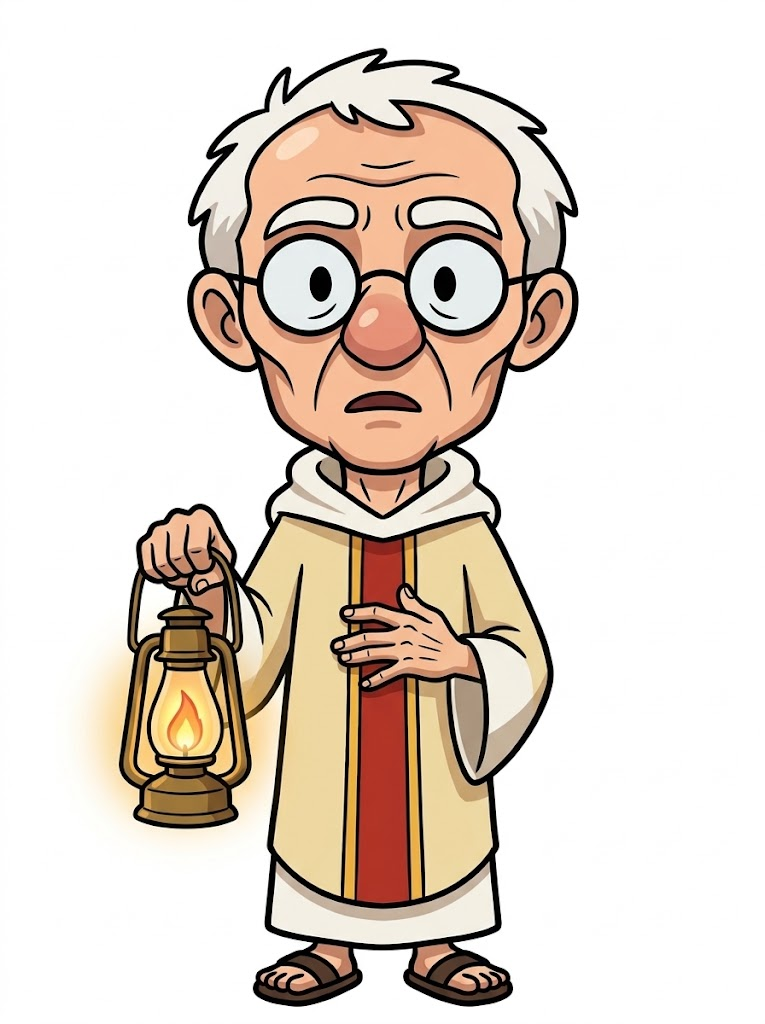
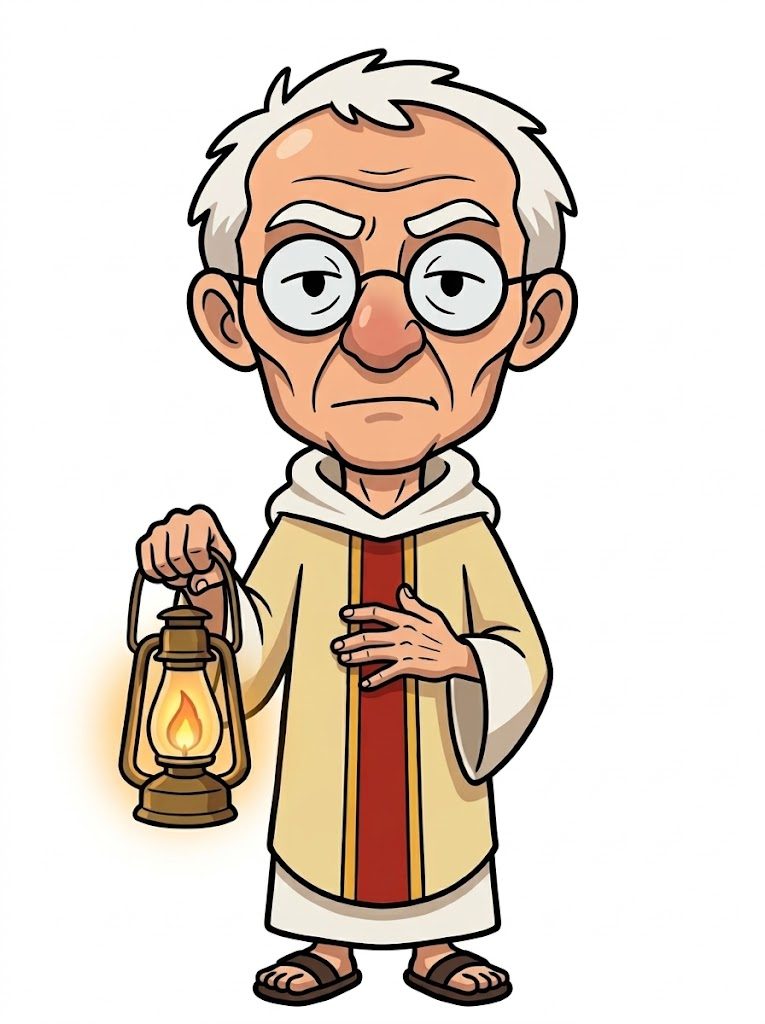
Sprite i retrat definitius del Pare Xèvius
Claude-Session: https://claude.ai/code/session_01Lxfm6YSSDLi4GYSBQ6SeDm

diff --git a/index.html b/index.html
@@ -61,62 +61,62 @@
     <div id="joc"></div>
 
     <!-- L'ordre importa: cada fitxer fa servir coses dels anteriors -->
-    <script src="js/sfx.js?v=2611182400"></script>
-    <script src="js/partida.js?v=2611182400"></script>
-    <script src="js/progres.js?v=2611182400"></script>
-    <script src="js/dibuixos.js?v=2611182400"></script>
-    <script src="js/icones.js?v=2611182400"></script>
-    <script src="js/dibuixos_biblio.js?v=2611182400"></script>
-    <script src="js/dibuixos_cela.js?v=2611182400"></script>
-    <script src="js/dibuixos_taller.js?v=2611182400"></script>
+    <script src="js/sfx.js?v=2611182430"></script>
+    <script src="js/partida.js?v=2611182430"></script>
+    <script src="js/progres.js?v=2611182430"></script>
+    <script src="js/dibuixos.js?v=2611182430"></script>
+    <script src="js/icones.js?v=2611182430"></script>
+    <script src="js/dibuixos_biblio.js?v=2611182430"></script>
+    <script src="js/dibuixos_cela.js?v=2611182430"></script>
+    <script src="js/dibuixos_taller.js?v=2611182430"></script>
     <script src="js/dibuixos_cripta.js?v=2611161400"></script>
-    <script src="js/dibuixos_georgi.js?v=2611182400"></script>
-    <script src="js/dibuixos_oratori.js?v=2611182400"></script>
-    <script src="js/dibuixos_ermita.js?v=2611182400"></script>
-    <script src="js/dibuixos_casa.js?v=2611182400"></script>
-    <script src="js/dibuixos_proleg.js?v=2611182400"></script>
-    <script src="js/dibuixos_pingpong.js?v=2611182400"></script>
-    <script src="js/assets.js?v=2611182400"></script>
-    <script src="js/dialegs.js?v=2611182400"></script>
-    <script src="js/ui.js?v=2611182400"></script>
-    <script src="js/zona_base.js?v=2611182400"></script>
-    <script src="js/atac_arma.js?v=2611182400"></script>
-    <script src="js/combat.js?v=2611182400"></script>
-    <script src="js/musica.js?v=2611182400"></script>
-    <script src="js/zones/placa.js?v=2611182400"></script>
-    <script src="js/zones/esglesia.js?v=2611182400"></script>
-    <script src="js/zones/monestir.js?v=2611182400"></script>
-    <script src="js/zones/bassadoria.js?v=2611182400"></script>
-    <script src="js/zones/casa_gran.js?v=2611182400"></script>
-    <script src="js/zones/nord.js?v=2611182400"></script>
-    <script src="js/zones/cirosa.js?v=2611182400"></script>
-    <script src="js/estels.js?v=2611182400"></script>
-    <script src="js/pingpong.js?v=2611182400"></script>
-    <script src="js/credits.js?v=2611182400"></script>
-    <script src="js/zones/oest.js?v=2611182400"></script>
-    <script src="js/zones/bosc_pi.js?v=2611182400"></script>
-    <script src="js/zones/cementiri.js?v=2611182400"></script>
-    <script src="js/zones/casa.js?v=2611182400"></script>
-    <script src="js/zones/cabana.js?v=2611182400"></script>
-    <script src="js/zones/cami.js?v=2611182400"></script>
-    <script src="js/zones/ermita.js?v=2611182400"></script>
-    <script src="js/zones/era.js?v=2611182400"></script>
-    <script src="js/zones/jardi.js?v=2611182400"></script>
-    <script src="js/zones/torre.js?v=2611182400"></script>
-    <script src="js/zones/hostatgeria.js?v=2611182400"></script>
-    <script src="js/zones/taverna.js?v=2611182400"></script>
-    <script src="js/zones/gabia.js?v=2611182400"></script>
-    <script src="js/zones/gabia_decor.js?v=2611182400"></script>
-    <script src="js/zones/biblioteca.js?v=2611182400"></script>
-    <script src="js/zones/rebedor.js?v=2611182400"></script>
-    <script src="js/zones/cela.js?v=2611182400"></script>
-    <script src="js/diari.js?v=2611182400"></script>
-    <script src="js/mapa.js?v=2611182400"></script>
-    <script src="js/proves_llistes.js?v=2611182400"></script>
-    <script src="js/proves_escenaris.js?v=2611182400"></script>
-    <script src="js/proves.js?v=2611182400"></script>
-    <script src="js/intro.js?v=2611182400"></script>
-    <script src="js/main.js?v=2611182400"></script>
+    <script src="js/dibuixos_georgi.js?v=2611182430"></script>
+    <script src="js/dibuixos_oratori.js?v=2611182430"></script>
+    <script src="js/dibuixos_ermita.js?v=2611182430"></script>
+    <script src="js/dibuixos_casa.js?v=2611182430"></script>
+    <script src="js/dibuixos_proleg.js?v=2611182430"></script>
+    <script src="js/dibuixos_pingpong.js?v=2611182430"></script>
+    <script src="js/assets.js?v=2611182430"></script>
+    <script src="js/dialegs.js?v=2611182430"></script>
+    <script src="js/ui.js?v=2611182430"></script>
+    <script src="js/zona_base.js?v=2611182430"></script>
+    <script src="js/atac_arma.js?v=2611182430"></script>
+    <script src="js/combat.js?v=2611182430"></script>
+    <script src="js/musica.js?v=2611182430"></script>
+    <script src="js/zones/placa.js?v=2611182430"></script>
+    <script src="js/zones/esglesia.js?v=2611182430"></script>
+    <script src="js/zones/monestir.js?v=2611182430"></script>
+    <script src="js/zones/bassadoria.js?v=2611182430"></script>
+    <script src="js/zones/casa_gran.js?v=2611182430"></script>
+    <script src="js/zones/nord.js?v=2611182430"></script>
+    <script src="js/zones/cirosa.js?v=2611182430"></script>
+    <script src="js/estels.js?v=2611182430"></script>
+    <script src="js/pingpong.js?v=2611182430"></script>
+    <script src="js/credits.js?v=2611182430"></script>
+    <script src="js/zones/oest.js?v=2611182430"></script>
+    <script src="js/zones/bosc_pi.js?v=2611182430"></script>
+    <script src="js/zones/cementiri.js?v=2611182430"></script>
+    <script src="js/zones/casa.js?v=2611182430"></script>
+    <script src="js/zones/cabana.js?v=2611182430"></script>
+    <script src="js/zones/cami.js?v=2611182430"></script>
+    <script src="js/zones/ermita.js?v=2611182430"></script>
+    <script src="js/zones/era.js?v=2611182430"></script>
+    <script src="js/zones/jardi.js?v=2611182430"></script>
+    <script src="js/zones/torre.js?v=2611182430"></script>
+    <script src="js/zones/hostatgeria.js?v=2611182430"></script>
+    <script src="js/zones/taverna.js?v=2611182430"></script>
+    <script src="js/zones/gabia.js?v=2611182430"></script>
+    <script src="js/zones/gabia_decor.js?v=2611182430"></script>
+    <script src="js/zones/biblioteca.js?v=2611182430"></script>
+    <script src="js/zones/rebedor.js?v=2611182430"></script>
+    <script src="js/zones/cela.js?v=2611182430"></script>
+    <script src="js/diari.js?v=2611182430"></script>
+    <script src="js/mapa.js?v=2611182430"></script>
+    <script src="js/proves_llistes.js?v=2611182430"></script>
+    <script src="js/proves_escenaris.js?v=2611182430"></script>
+    <script src="js/proves.js?v=2611182430"></script>
+    <script src="js/intro.js?v=2611182430"></script>
+    <script src="js/main.js?v=2611182430"></script>
     <script>
         // Service worker: només amb http(s) (no obrint el fitxer directament) i sense fer fallar el joc si no pot ser
         window.addEventListener('load', () => { try { if (typeof game !== 'undefined') sessionStorage.removeItem('runna_reintent'); } catch (e) { } });

diff --git a/eines/convertir_retrats.js b/eines/convertir_retrats.js
@@ -10,7 +10,7 @@ const font=fs.readFileSync(A+'/js/assets.js','utf8');
 const ctx={};
 vm.runInNewContext(font.slice(font.indexOf('function treureFonsBlanc'),font.indexOf('// ---------- Dibuixos provisionals'))+'; this.f = treureFonsBlanc;',ctx);
 // fitxer (sense _retrat.jpg) -> clau del sprite
-const MAPA={ocellaire:'ocellaire',ocellaire_derrotat:'ocellaire_derrotat',carmelia:'carmelia',eve:'eve',senyor_budo:'senyor_budo',pomers:'pomers',galf:'galf',germaaldreu:'germa_aldreu',germafranci:'germa_franci',ineu:'ineu',isilder:'isilder',joaneta:'joaneta',jusef:'jusef',nena_trenes:'nena_trenes',dolora:'dolora',parealcovi:'pare_alcovi',paredaimiel:'pare_daimiel',parejorda:'pare_jorda',pastor_a:'pastor_a',pastor_b:'pastor_b',pastor_vell:'pastor_vell',pilaria:'pilaria',pianista:'pianista',iscu:'iscu',julius:'julius',tiller:'tiller',carry:'carry',venerables:'venerables',pastor_boira:'pastor_boira',follet_carro:'follet_carro',nen_uri:'nen_uri',nen_flam:'nen_flam',nen_sardin:'nen_sardin',ocellaire:'ocellaire',home_raim:'home_raim',rosansa:'rosansa',meus:'meus',molner:'molner',ombra:'ombra_monjo',mandu:'mandu',mandu_trencada:'mandu_trencada'};
+const MAPA={ocellaire:'ocellaire',ocellaire_derrotat:'ocellaire_derrotat',carmelia:'carmelia',eve:'eve',senyor_budo:'senyor_budo',pomers:'pomers',galf:'galf',germaaldreu:'germa_aldreu',germafranci:'germa_franci',ineu:'ineu',isilder:'isilder',joaneta:'joaneta',jusef:'jusef',nena_trenes:'nena_trenes',dolora:'dolora',parealcovi:'pare_alcovi',parexevius:'pare_xevius',paredaimiel:'pare_daimiel',parejorda:'pare_jorda',pastor_a:'pastor_a',pastor_b:'pastor_b',pastor_vell:'pastor_vell',pilaria:'pilaria',pianista:'pianista',iscu:'iscu',julius:'julius',tiller:'tiller',carry:'carry',venerables:'venerables',pastor_boira:'pastor_boira',follet_carro:'follet_carro',nen_uri:'nen_uri',nen_flam:'nen_flam',nen_sardin:'nen_sardin',ocellaire:'ocellaire',home_raim:'home_raim',rosansa:'rosansa',meus:'meus',molner:'molner',ombra:'ombra_monjo',mandu:'mandu',mandu_trencada:'mandu_trencada'};
 // Retrats amb la roba blanca oberta pel cantó de baix (camisa blanca de ratlles blaves del Pomers): el fons blanc s'hi colava entre les ratlles i la camisa quedava transparent.
 // Es fa un «tancament» (dilatar i erosionar) de la màscara per sota de la fila y0, i els forats recuperen el color original (blanc).
 function tancaRoba(data, w, h, y0, r) {

diff --git a/js/assets.js b/js/assets.js
@@ -219,7 +219,7 @@ const CATALEG = [
 
 // Retrats de qui parla als diàlegs (assets/retrats/<clau>.webp: de tres quarts, amb fons transparent; es fan amb eines/convertir_retrats.js).
 // Els personatges que encara no en tenen fan servir el cap retallat del sprite (retratDe, a ui.js).
-['ineu', 'pare_jorda', 'germa_aldreu', 'germa_franci', 'pare_daimiel', 'pare_alcovi', 'eve', 'senyor_budo', 'jusef', 'pomers', 'julius', 'galf', 'isilder', 'pianista', 'joaneta', 'iscu',
+['ineu', 'pare_jorda', 'germa_aldreu', 'germa_franci', 'pare_daimiel', 'pare_alcovi', 'pare_xevius', 'eve', 'senyor_budo', 'jusef', 'pomers', 'julius', 'galf', 'isilder', 'pianista', 'joaneta', 'iscu',
  'nena_trenes', 'venerables', 'carry', 'carmelia', 'pilaria', 'dolora', 'pastor_vell', 'pastor_a', 'pastor_b', 'tiller', 'pastor_boira', 'follet_carro', 'georgi_caseta', 'rosansa', 'meus', 'molner', 'ombra_monjo', 'mandu', 'mandu_trencada', 'nen_uri', 'nen_flam', 'nen_sardin', 'ocellaire', 'ocellaire_derrotat', 'home_raim', 'home_raim_horitzo']
     .forEach(k => CATALEG.push({ key: 'retratimg_' + k, file: 'assets/retrats/' + k + '.webp', amplada: 170, cru: true }));
 

diff --git a/docs/PROMPTS_GRAFICS.md b/docs/PROMPTS_GRAFICS.md
@@ -146,7 +146,7 @@
 
 - [x] `pare_daimiel`
 
-- [x] `pare_xevius` (sprite fet, amb el fanalet; el retrat és el cap retallat del sprite)
+- [x] `pare_xevius` (sprite fet, amb el fanalet; retrat fet: `assets/retrats/pare_xevius.webp`)
 
   *Prompt (anglès):* Full-body chibi character sprite, front view, standing, transparent background. An elderly monk drawn as a cute chibi: big head and small body, but still clearly the tallest and thinnest of all, with a long narrow face, high cheekbones, a big prominent nose, thick white eyebrows, small thin-framed round glasses, thin messy white hair, a calm but wary, once-bitten expression. He wears a white monk's habit with a white hood and collar and, over it, a pale cream liturgical chasuble with a vertical red-and-gold stripe down the middle, and brown sandals. He holds a small old brass oil lantern with a warm glowing flame in one hand, the other hand resting on his chest. Clean cartoon outlines, flat soft colors, cheerful fairy-tale game art.
 
